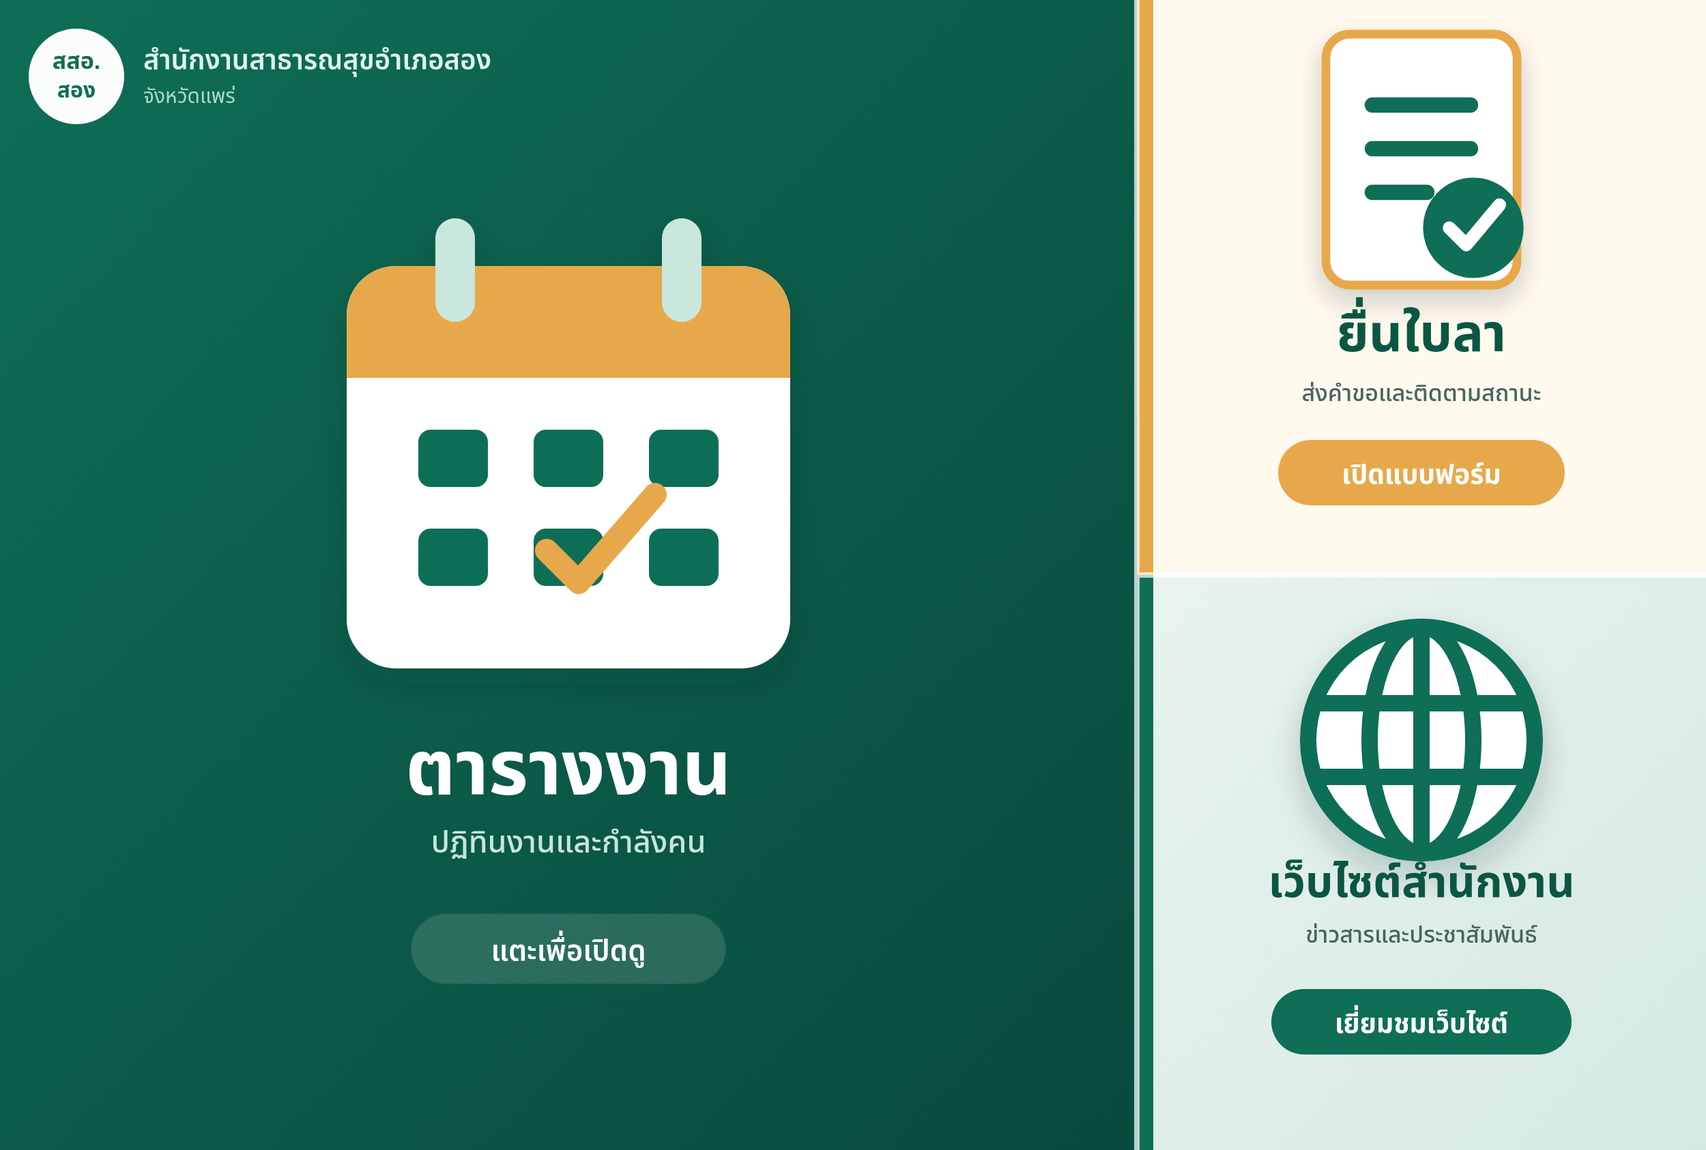
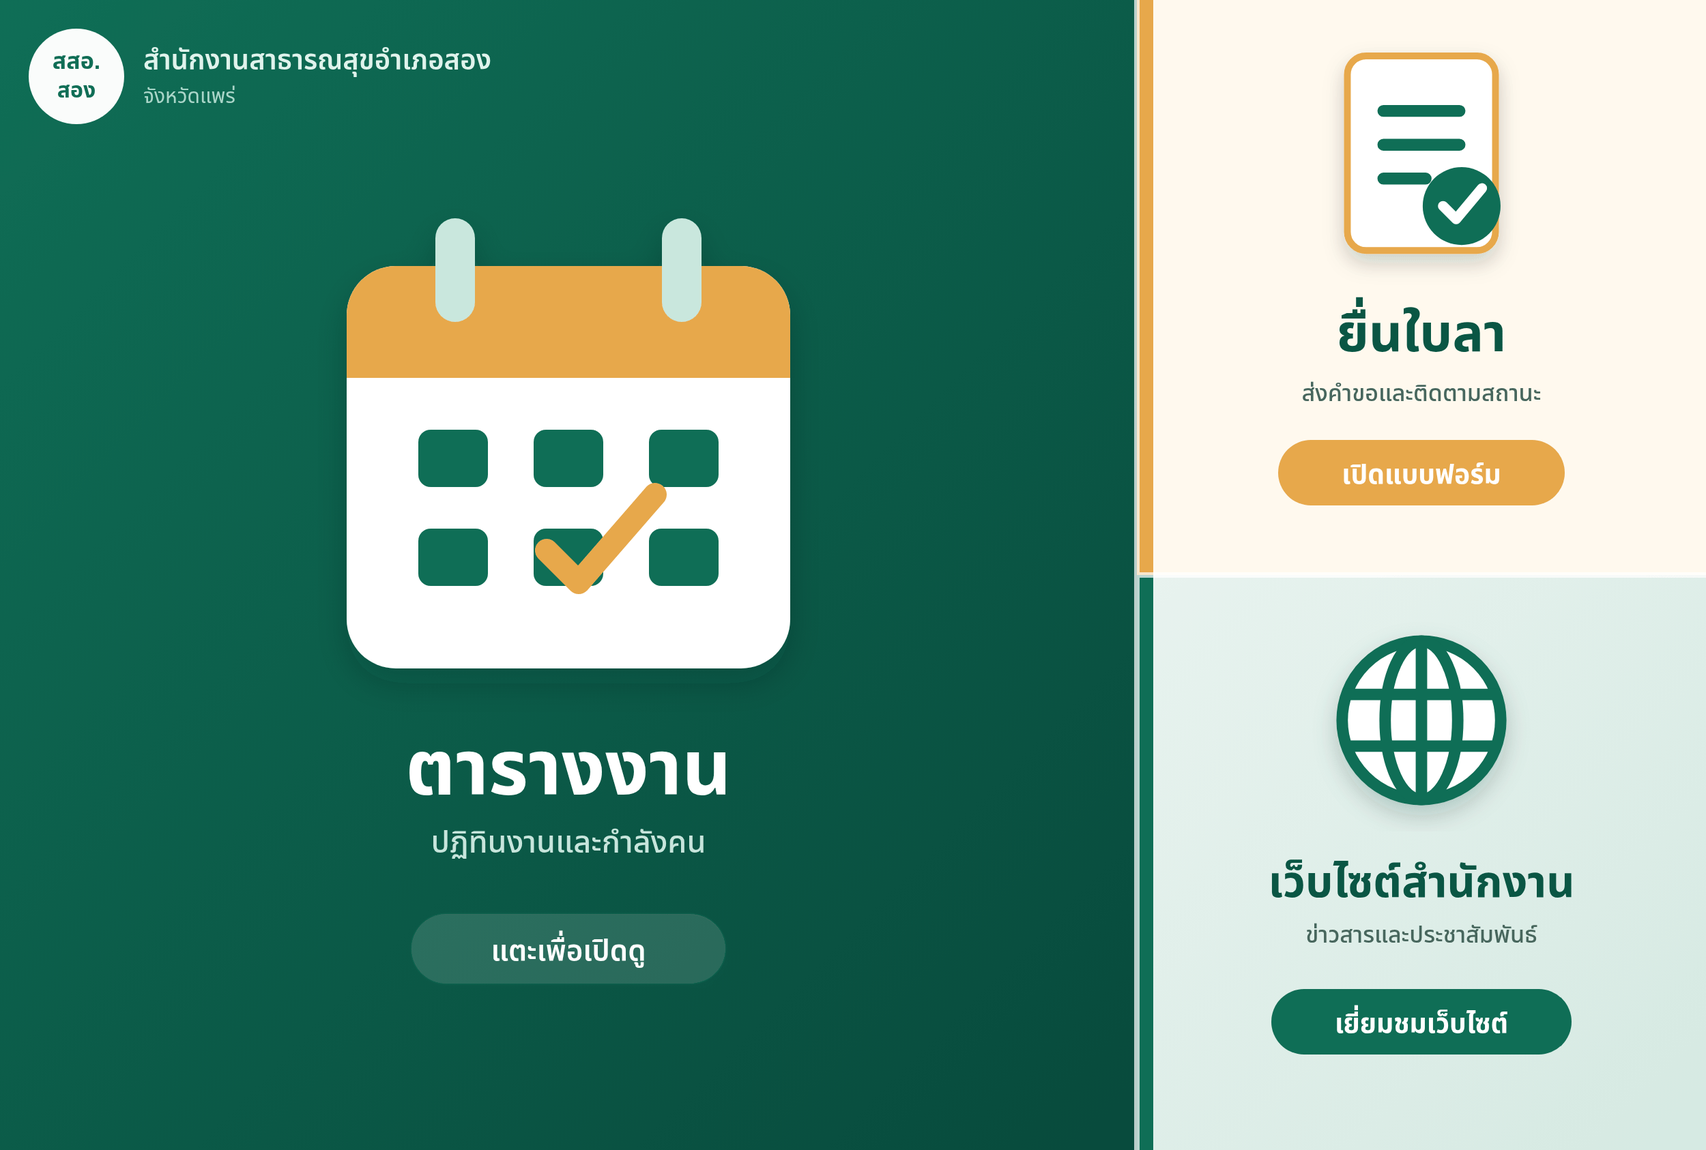
Implement log retention policy and related features
- Added `logs_retention_days` setting to manage log retention duration (30-3650 days).
- Implemented daily cleanup of old logs in the `Logs` sheet without affecting `AuditLog` and `SecurityEvents`.
- Updated UI to include log retention settings in the admin panel.
- Enhanced validation for log retention input in settings.
- Added tests for log retention functionality and validation.
- Updated relevant documentation to reflect changes in logging and retention policies.

Changed region(s): [[0.7488, 0.0, 0.9048, 0.2776], [0.7488, 0.5243, 0.9048, 0.7711]]

diff --git a/web/liff-form/index.html b/web/liff-form/index.html
@@ -267,6 +267,9 @@
     'ลาช่วยเหลือภรรยาคลอดบุตร': 'สิทธิ์ขึ้นกับประเภทบุคลากรและระเบียบที่ใช้บังคับ',
     'อื่นๆ': 'ระบุรายละเอียดในช่องเหตุผล',
   };
+  const LEGACY_TYPE_LABELS = {
+    'ลาช่วยเหลือภริยาคลอดบุตร': 'ลาช่วยเหลือภรรยาคลอดบุตร',
+  };
   const CALENDAR_QUOTA_TYPES = ['ลาคลอด', 'ลาอุปสมบท/ลาบวช'];
 
   const state = {
@@ -283,6 +286,10 @@
   // ---------- เครื่องมือเล็กๆ ----------
 
   function $(id) { return document.getElementById(id); }
+  function leaveTypeLabel_(value) {
+    const name = String(value || '').trim();
+    return LEGACY_TYPE_LABELS[name] || name;
+  }
 
   // ตัวจับเวลากัน "หน้าค้างหมุนตลอดกาล": liff.init() ค้างหลังวนกลับจากหน้า login ของ LINE
   // (เคสที่พบบ่อยใน browser ภายนอก) ทำให้ไม่มีวันไปถึงหน้าไหน — เกิน 30 วินาทีให้เปลี่ยนเป็น
@@ -646,7 +653,7 @@
       const remaining = manualEvent ? 'ตรวจรายกรณี' :
         (info.quota == null ? 'ไม่จำกัด' : daysText_(Math.max(0, info.quota - info.used)));
       return {
-        type: type,
+        type: leaveTypeLabel_(type),
         used: daysText_(info.used || 0),
         quota: info.quota,
         unit: info.unit || (CALENDAR_QUOTA_TYPES.includes(type) ? 'วันปฏิทิน' : 'วันทำการ'),
@@ -686,7 +693,7 @@
     }
     return '<div class="bg-white border border-slate-200 rounded-2xl p-4 mb-2.5">' +
       '<div class="flex items-center justify-between gap-2">' +
-        '<span class="font-semibold text-sm">' + escapeHtml(leave.leaveType) + '</span>' +
+        '<span class="font-semibold text-sm">' + escapeHtml(leaveTypeLabel_(leave.leaveType)) + '</span>' +
         '<span class="' + statusBadgeClasses_(leave.status) + ' flex-none">' + escapeHtml(leave.status) + '</span>' +
       '</div>' +
       '<p class="text-xs text-slate-600 mt-1.5">' +
@@ -733,7 +740,7 @@
   });
 
   async function confirmCancelLeave_(leave) {
-    const summary = leave.leaveType + ' · ' + dateRangeLabel(leave.start, leave.end);
+    const summary = leaveTypeLabel_(leave.leaveType) + ' · ' + dateRangeLabel(leave.start, leave.end);
     // ใบอนุมัติแล้วเตือนให้หนักกว่าใบรอ เพราะมีผลกับตารางที่เพื่อนร่วมงานเห็นแล้ว
     const message = leave.status === 'อนุมัติ'
       ? 'ยกเลิกใบลานี้ที่อนุมัติไปแล้ว?\n' + summary + '\n\nระบบจะแจ้งผู้อนุมัติของกลุ่มงานให้ทราบ'
@@ -821,16 +828,20 @@
   function renderTypeGrid() {
     const grid = $('typeGrid');
     grid.innerHTML = '';
-    (state.options.leaveTypes.length ? state.options.leaveTypes : Object.keys(TYPE_DESCRIPTIONS)).forEach(name => {
+    const types = state.options.leaveTypes.length ? state.options.leaveTypes : Object.keys(TYPE_DESCRIPTIONS);
+    types.forEach((name, index) => {
       const btn = document.createElement('button');
       btn.type = 'button';
       // ไฮไลต์ประเภทที่เลือกอยู่ (รวมถึงตอน prefill จากใบที่กำลังแก้ไข) ตั้งแต่ตอนสร้างปุ่ม
       const selected = name === state.leaveType;
+      // จำนวนคี่ให้เฉพาะใบสุดท้ายกินเต็มแถว จึงไม่มีช่องว่างกลาง grid หรือช่องครึ่งแถวท้าย
+      const spanLast = types.length % 2 === 1 && index === types.length - 1;
       btn.className = 'type-btn min-h-12 px-3 py-2.5 rounded-xl border text-center transition-colors motion-reduce:transition-none ' +
-        (name.length > 22 ? 'col-span-2 ' : '') +
+        (spanLast ? 'col-span-2 ' : '') +
         (selected ? 'bg-primary-light border-primary' : 'border-slate-200 hover:border-primary');
       btn.setAttribute('aria-pressed', selected ? 'true' : 'false');
-      btn.innerHTML = '<span class="block font-semibold text-[13px] sm:text-sm leading-snug">' + escapeHtml(name) + '</span>';
+      btn.innerHTML = '<span class="block font-semibold text-[13px] sm:text-sm leading-snug">' +
+        escapeHtml(leaveTypeLabel_(name)) + '</span>';
       btn.addEventListener('click', () => {
         state.leaveType = name;
         document.querySelectorAll('.type-btn').forEach(b => {
@@ -851,7 +862,7 @@
   // แสดงคำอธิบายเฉพาะประเภทที่เลือก เพื่อให้ปุ่มสั้นและสแกนได้เร็วบนมือถือ
   function refreshTypeHelp_() {
     const el = $('typeHelp');
-    const description = TYPE_DESCRIPTIONS[state.leaveType] || '';
+    const description = TYPE_DESCRIPTIONS[leaveTypeLabel_(state.leaveType)] || '';
     el.classList.toggle('hidden', !description);
     el.textContent = description;
   }
@@ -1027,7 +1038,7 @@
           : 'ระบบแจ้งผู้อนุมัติแล้ว ผลจะแจ้งกลับมาในแชทนี้');
       const periodNote = result.period && result.period !== 'เต็มวัน' ? ' (' + result.period + ')' : '';
       $('successCard').innerHTML =
-        '<div class="flex justify-between"><span class="text-slate-500">ประเภท</span><span class="font-semibold">' + escapeHtml(state.leaveType) + '</span></div>' +
+        '<div class="flex justify-between"><span class="text-slate-500">ประเภท</span><span class="font-semibold">' + escapeHtml(leaveTypeLabel_(state.leaveType)) + '</span></div>' +
         '<div class="flex justify-between"><span class="text-slate-500">วันที่</span><span class="font-semibold">' + escapeHtml(dateRangeLabel(start, end) + periodNote) + '</span></div>' +
         '<div class="flex justify-between"><span class="text-slate-500">วันทำการ</span><span class="font-semibold">' + escapeHtml(result.workDaysLabel || (result.workDays + ' วัน')) + '</span></div>' +
         (CALENDAR_QUOTA_TYPES.includes(state.leaveType)

diff --git a/web/admin/js/views/system.js b/web/admin/js/views/system.js
@@ -25,6 +25,10 @@ AdminViews.system = {
       '<div><label for="f-time" class="block text-sm font-semibold text-slate-500 mb-1.5">เวลาแจ้งเตือนทุกเช้า</label>' +
       '<input type="time" id="f-time" class="w-full px-3 py-2.5 border border-slate-200 rounded-lg text-sm">' +
       '<p class="text-xs text-slate-500 mt-1.5">หลังเปลี่ยนเวลา ให้กดเมนู "ติดตั้ง/อัปเดตเวลาส่งอัตโนมัติ" ใน Google Sheet</p></div>' +
+      '<div><label for="f-log-retention" class="block text-sm font-semibold text-slate-500 mb-1.5">เก็บประวัติ Logs</label>' +
+      '<div class="relative"><input type="number" id="f-log-retention" min="30" max="3650" step="1" inputmode="numeric" ' +
+      'class="w-full px-3 py-2.5 pr-14 border border-slate-200 rounded-lg text-sm"><span class="absolute right-3 top-2.5 text-sm text-slate-400">วัน</span></div>' +
+      '<p class="text-xs text-slate-500 mt-1.5">ค่าแนะนำ 90 วัน · ระบบลบรายการเก่าอัตโนมัติวันละครั้ง และไม่ลบ AuditLog หรือ SecurityEvents</p></div>' +
       '<div><label for="f-calendar" class="block text-sm font-semibold text-slate-500 mb-1.5">Notion Database ID</label>' +
       '<input type="text" id="f-calendar" placeholder="your_notion_database_id" class="w-full px-3 py-2.5 border border-slate-200 rounded-lg text-sm font-mono text-xs">' +
       '<p class="text-xs text-slate-500 mt-1.5">เอาจาก URL ของหน้า database ใน Notion (ส่วนก่อนเครื่องหมาย ?) และต้องแชร์ database ให้ integration ก่อน</p></div>' +
@@ -68,6 +72,7 @@ AdminViews.system = {
     this.settingsVersion = s._version || '';
     UI.$('f-enabled').checked = String(s.enabled).toUpperCase() === 'TRUE';
     UI.$('f-time').value = this.normalizeTimeForInput_(s.notify_time);
+    UI.$('f-log-retention').value = /^\d+$/.test(String(s.logs_retention_days || '')) ? s.logs_retention_days : '90';
     UI.$('f-calendar').value = s.notion_database_id || '';
     UI.$('f-group').value = s.line_group_id || '';
     this.setFormat(String(s.message_format || 'text').toLowerCase());
@@ -96,6 +101,7 @@ AdminViews.system = {
     const payload = {
       enabled: UI.$('f-enabled').checked ? 'TRUE' : 'FALSE',
       notify_time: UI.$('f-time').value,
+      logs_retention_days: UI.$('f-log-retention').value.trim(),
       notion_database_id: UI.$('f-calendar').value.trim(),
       line_group_id: UI.$('f-group').value.trim(),
       message_format: this.format,
@@ -105,6 +111,11 @@ AdminViews.system = {
       if (!/^([01]\d|2[0-3]):[0-5]\d$/.test(payload.notify_time)) { UI.showToast('เวลาแจ้งเตือนไม่ถูกต้อง', true); return; }
       if (!payload.notion_database_id) { UI.showToast('กรุณาใส่ Notion Database ID', true); return; }
       if (!payload.line_group_id) { UI.showToast('กรุณาใส่ LINE Group ID', true); return; }
+    }
+    if (!/^\d+$/.test(payload.logs_retention_days) || Number(payload.logs_retention_days) < 30 ||
+        Number(payload.logs_retention_days) > 3650) {
+      UI.showToast('จำนวนวันที่เก็บ Logs ต้องอยู่ระหว่าง 30-3650 วัน', true);
+      return;
     }
     UI.setBusy(btn, true, 'กำลังบันทึก…');
     try {

diff --git a/scripts/check-syntax.js b/scripts/check-syntax.js
@@ -85,12 +85,17 @@ function checkLiffFormUxContracts() {
   const required = [
     'id="typeHelp"',
     'function refreshTypeHelp_()',
+    'function leaveTypeLabel_(value)',
     "btn.setAttribute('aria-pressed', selected ? 'true' : 'false')",
+    'const spanLast = types.length % 2 === 1 && index === types.length - 1',
+    "spanLast ? 'col-span-2 ' : ''",
+    'escapeHtml(leaveTypeLabel_(name))',
     'ลาช่วยเหลือภรรยาคลอดบุตร',
   ];
   const forbidden = [
     "escapeHtml((TYPE_DESCRIPTIONS[name] || '') + quotaText)",
     'ระบบปิดการอนุมัติอยู่ — ยื่นแล้วบันทึกเป็นอนุมัติทันที',
+    "name.length > 22 ? 'col-span-2 ' : ''",
   ];
   const missing = required.filter(value => !source.includes(value));
   const present = forbidden.filter(value => source.includes(value));
@@ -100,6 +105,33 @@ function checkLiffFormUxContracts() {
       (present.length ? '; forbidden: ' + present.join(', ') : ''));
     process.exitCode = 1;
   }
+}
+
+function checkLogRetentionContracts() {
+  const contracts = [
+    {
+      file: 'apps/main/Summary.gs',
+      required: ['LOG_RETENTION_DAYS_DEFAULT = 90', "LOG_CLEANUP_TRIGGER_HANDLER = 'cleanupLogsDaily'",
+        'function cleanupOldLogs_', 'function ensureLogCleanupTrigger_', '.everyDays(1)',
+        'sheet.deleteRows(run.startRow, run.count)'],
+    },
+    {
+      file: 'apps/main/Config.gs',
+      required: ["['logs_retention_days', '90'"],
+    },
+    {
+      file: 'web/admin/js/views/system.js',
+      required: ['id="f-log-retention"', 'logs_retention_days:', 'ไม่ลบ AuditLog หรือ SecurityEvents'],
+    },
+  ];
+  contracts.forEach(contract => {
+    const source = fs.readFileSync(path.join(root, contract.file), 'utf8');
+    const missing = contract.required.filter(value => !source.includes(value));
+    if (missing.length) {
+      console.error(contract.file + ' log-retention contract failed; missing: ' + missing.join(', '));
+      process.exitCode = 1;
+    }
+  });
 }
 
 walk(path.join(root, 'apps'))
@@ -125,5 +157,6 @@ walk(path.join(root, 'web'))
 checkAdminViewContracts();
 checkDirectModeContracts();
 checkLiffFormUxContracts();
+checkLogRetentionContracts();
 
 if (!process.exitCode) console.log('Syntax, UI, admin view, and direct-mode contract checks passed');

diff --git a/scripts/test-apps-script.js b/scripts/test-apps-script.js
@@ -57,6 +57,22 @@ if (!result || result.failed !== 0) process.exitCode = 1;
 const webappContext = vm.createContext({ console, Utilities: { formatDate } });
 const webappSource = fs.readFileSync(path.resolve(__dirname, '../apps/webapp/WebApp.gs'), 'utf8');
 vm.runInContext(webappSource, webappContext, { filename: 'WebApp.gs' });
+const normalizedAdminLeaveType = vm.runInContext(
+  "adminNormalizeLeaveType_('ลาช่วยเหลือภริยาคลอดบุตร')", webappContext);
+if (normalizedAdminLeaveType !== 'ลาช่วยเหลือภรรยาคลอดบุตร') {
+  console.error('FAIL testAdminLeaveTypeSpelling');
+  process.exitCode = 1;
+} else {
+  console.log('PASS testAdminLeaveTypeSpelling');
+}
+const validRetentionErrors = vm.runInContext("validateSettings_({ logs_retention_days: '90' })", webappContext);
+const invalidRetentionErrors = vm.runInContext("validateSettings_({ logs_retention_days: '29' })", webappContext);
+if (validRetentionErrors.length || !invalidRetentionErrors.some(error => /30-3650/.test(error))) {
+  console.error('FAIL testAdminLogRetentionValidation');
+  process.exitCode = 1;
+} else {
+  console.log('PASS testAdminLogRetentionValidation');
+}
 const fiscalReportHelpers = vm.runInContext(`({
   beforeBoundary: reportFiscalYearCEForDate_(new Date('2026-09-30T12:00:00+07:00')),
   atBoundary: reportFiscalYearCEForDate_(new Date('2026-10-01T00:00:00+07:00')),

diff --git a/SETUP.md b/SETUP.md
@@ -75,6 +75,9 @@
 2. จะเห็นเมนู **ระบบแจ้งเตือนปฏิทิน** โผล่ขึ้นมาข้างเมนู Help
 3. กด **ติดตั้ง/อัปเดตเวลาส่งอัตโนมัติ** — อนุญาตสิทธิ์ถ้ามีการขอ และกดเมนูนี้ซ้ำทุกครั้งหลังแก้ `notify_time`
 4. กด **ทดสอบส่งตอนนี้** เพื่อตรวจสอบการเชื่อมต่อ ควรเห็นข้อความในกลุ่ม LINE ทันที
+5. ตรวจค่า `logs_retention_days` ในชีต Settings หรือหน้า Admin > **ระบบ > เก็บประวัติ Logs** — ค่าเริ่มต้น `90` วัน ปรับได้ `30-3650` วัน
+
+เมนูติดตั้งเวลาจะสร้าง trigger แยกสำหรับลบเฉพาะแถวในชีต `Logs` ที่เก่ากว่ากำหนดวันละครั้ง แม้ปิดการส่งข้อความเช้า โดยไม่แตะ `AuditLog` หรือ `SecurityEvents` หาก cleanup ไม่สำเร็จ ระบบจะแสดงเป็นงานล้มเหลวใน Apps Script Executions แต่ไม่กระทบ trigger แจ้งเตือนหรือระบบลา
 
 ## 9. อัปเดตวันหยุดให้ตรงกับประกาศทางการ
 
@@ -157,7 +160,7 @@
 
 จากนั้น: กด **"..."** > **Connections** > เพิ่ม integration เดิมที่ใช้กับปฏิทินงาน > คัดลอก Database ID จาก URL ไปวางในแถว `leave_database_id` ของชีต Settings
 
-> ระบบเดิมที่มี option `ลาอุปสมบถ/ลาบวช` ให้ **rename option เดิมใน Notion** เป็น `ลาอุปสมบท/ลาบวช` (อย่าลบแล้วสร้างใหม่) เพื่อให้ใบย้อนหลังเปลี่ยนตาม option เดิมโดยไม่สูญข้อมูล เมนูเตรียมชีตจะย้ายคำสะกดใน Settings/QuotaProfiles/LeaveBalances ให้อัตโนมัติ และ runtime ยังอ่านคำสะกดเดิมได้ระหว่าง migration
+> ระบบเดิมที่มี option `ลาอุปสมบถ/ลาบวช` หรือ `ลาช่วยเหลือภริยาคลอดบุตร` ให้ **rename option เดิมใน Notion** เป็น `ลาอุปสมบท/ลาบวช` หรือ `ลาช่วยเหลือภรรยาคลอดบุตร` ตามลำดับ (อย่าลบแล้วสร้างใหม่) เพื่อให้ใบย้อนหลังเปลี่ยนตาม option เดิมโดยไม่สูญข้อมูล เมนูเตรียมชีตจะย้ายคำสะกดใน Settings/QuotaProfiles/LeaveBalances ให้อัตโนมัติ และ runtime ยังอ่านคำสะกดเดิมได้ระหว่าง migration
 
 **หลักการคำนวณวันลาตามระเบียบสำนักนายกฯ ว่าด้วยการลาของข้าราชการ** (สรุปสิ่งที่ระบบทำอัตโนมัติ):
 

diff --git a/PRODUCTION-HANDOFF.md b/PRODUCTION-HANDOFF.md
@@ -221,6 +221,8 @@ HR ควรสร้างหนึ่งแถวต่อ:
 
 ### 7.2 Logging และ alerts
 
+ตั้ง `logs_retention_days` ตามนโยบายองค์กร (ค่าเริ่มต้น 90 วัน, ระบบรับ 30-3650 วัน) สำหรับชีต `Logs` เท่านั้น การ cleanup ใช้ trigger รายวันแยกจากงานแจ้งเตือน จึงยังทำงานเมื่อปิดการส่งข้อความเช้าและไม่กระทบงานหลัก ส่วน `AuditLog` ต้องเก็บตามนโยบายหลักฐานการเปลี่ยนแปลง/เอกสารบุคลากร และ `SecurityEvents` ใช้อายุรายการตามกลไกความปลอดภัยของระบบ ห้ามนำสองชีตนี้ไปรวมกับการลบ `Logs` อัตโนมัติ
+
 เปิด structured log และสร้าง alert อย่างน้อยสำหรับ:
 
 - Apps Script execution error หรือ timeout เพิ่มผิดปกติ

diff --git a/USER-ADMIN-GUIDE.md b/USER-ADMIN-GUIDE.md
@@ -213,6 +213,7 @@
 ### 6.3 ทุกสัปดาห์
 
 - ตรวจ Apps Script Executions, gateway logs และ Logs sheet หา error ซ้ำ
+- ตรวจหน้า **ระบบ > เก็บประวัติ Logs** ว่ายังคงเป็นค่าที่องค์กรอนุมัติ (ค่าเริ่มต้น 90 วัน) ระบบลบเฉพาะ `Logs` อัตโนมัติวันละครั้ง; `AuditLog` และ `SecurityEvents` ไม่อยู่ในนโยบายลบนี้
 - ตรวจ `SecurityEvents` และ `AuditLog` เฉพาะผู้มีหน้าที่ โดยไม่ส่งออกทั้งชีตโดยไม่จำเป็น
 - ตรวจ notification retry/dead-letter และแก้สาเหตุก่อน retry ด้วยมือ
 - ทดสอบ health endpoint และหน้าหลักหนึ่งครั้ง
